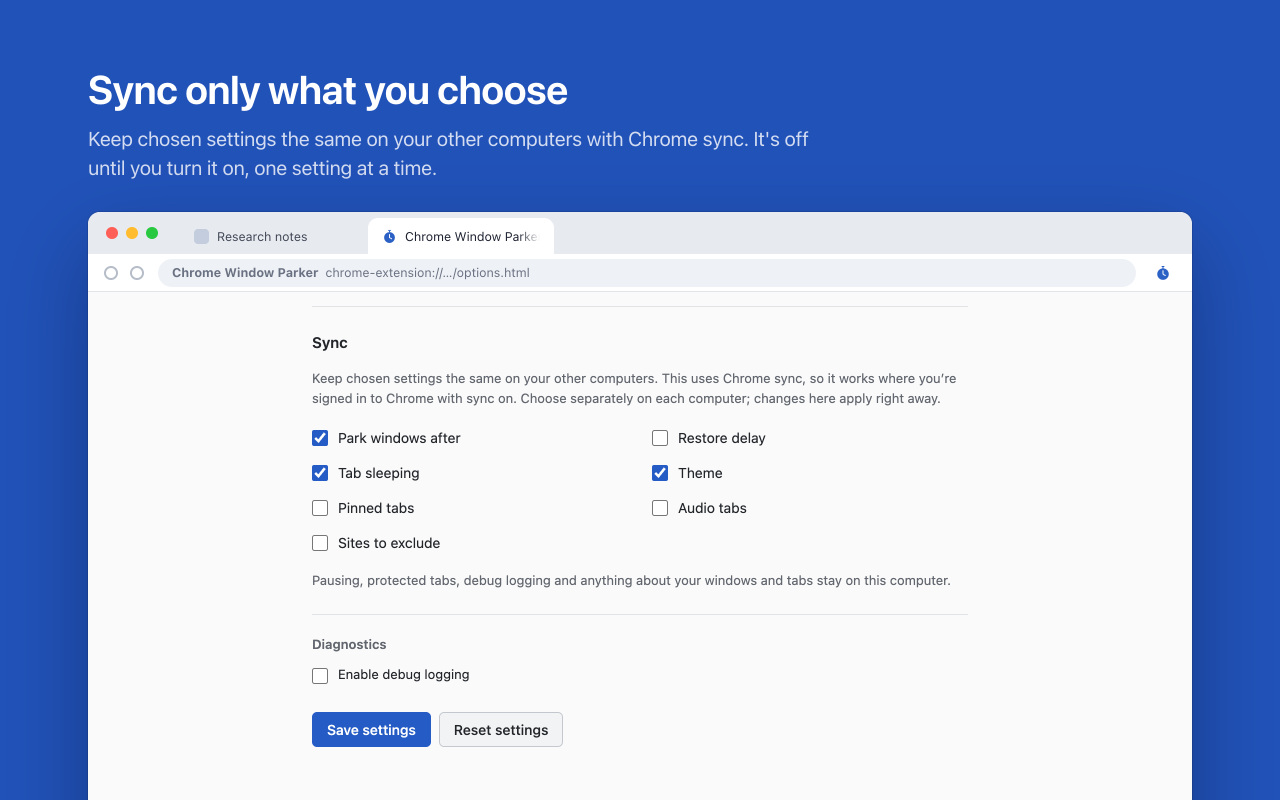
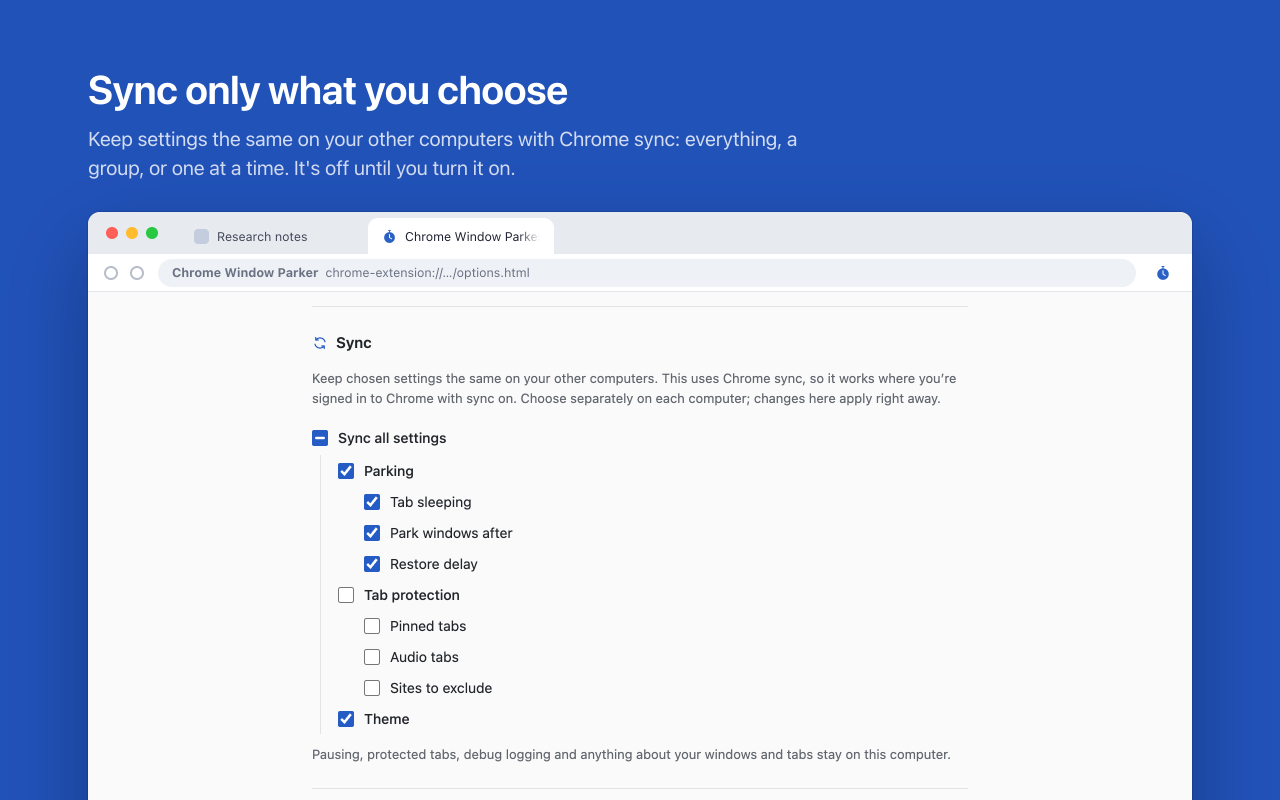
Release candidate 1.5.5.3: version, docs, Store assets and Claude audit
- Version 1.5.5.3 (manifest, package.json, Store fields, issue template).
- Changelog, BEHAVIOR, PRIVACY and TESTING describe grouped sync, the
  "changed here" rule, Restore defaults, excluded-site paste and sorting,
  and the popup icons. Reviewer test instructions updated (496 characters
  with CRLF).
- Store: the capture script uses the new sync request; the Sync caption no
  longer says "one setting at a time". Screenshots 2 (popup), 3 (Settings:
  the Parking heading icon), 4 (Sync) and 5 (dark popup) are regenerated
  from real captures; screenshot 1, both promos, the Store icon and the
  cover are unchanged. All 9 images verify against their sources and the
  current UI.

diff --git a/tools/store-assets/compositions/shot-4-sync.html b/tools/store-assets/compositions/shot-4-sync.html
@@ -1,7 +1,7 @@
 <!doctype html><html lang="en"><head><meta charset="utf-8"><link rel="stylesheet" href="style.css">
 <style>.window { left: 88px; top: 212px; width: 1104px; height: 720px; } .content > img { width: 1280px; margin-left: -88px; }</style></head>
 <body>
-<div class="caption"><h1>Sync only what you choose</h1><p>Keep chosen settings the same on your other computers with Chrome sync. It's off until you turn it on, one setting at a time.</p></div>
+<div class="caption"><h1>Sync only what you choose</h1><p>Keep settings the same on your other computers with Chrome sync: everything, a group, or one at a time. It's off until you turn it on.</p></div>
 <div class="window"><div class="frame"><div class="lights"><i></i><i></i><i></i></div>
 <div class="tabs"><span class="tab"><i class="fav"></i><span class="title">Research notes</span></span><span class="tab active"><i class="fav timer"></i><span class="title">Chrome Window Parker · Settings</span></span></div>
 <div class="toolbar"><span class="nav"><i></i><i></i></span><span class="omnibox"><b>Chrome Window Parker</b>&nbsp;&nbsp;chrome-extension://…/options.html</span><span class="action"><img src="../../../icons/parker-timer.svg" alt=""></span></div></div>

diff --git a/tests/support.test.js b/tests/support.test.js
@@ -81,5 +81,5 @@ test('permission list and restrictive CSP remain unchanged; no external resource
  const m=JSON.parse(read('manifest.json'));assert.deepEqual(m.permissions,['tabs','storage','alarms','downloads']);assert.equal(m.host_permissions,undefined);assert.equal(m.content_scripts,undefined);
  assert.equal(m.content_security_policy.extension_pages,"default-src 'self'; script-src 'self'; style-src 'self'; img-src 'self'; connect-src 'none'; object-src 'none'; base-uri 'none'; form-action 'none'; frame-src 'none'");
  for(const f of ['popup.html','options.html','parked.html'])assert(!/<(?:script|img|iframe)[^>]+(?:src|href)="https?:/.test(read(f)));
- assert.equal(m.version,'1.5.5.2');assert(!/stripe|payment|entitlement/i.test(read('support.js')));
+ assert.equal(m.version,'1.5.5.3');assert(!/stripe|payment|entitlement/i.test(read('support.js')));
 });

diff --git a/TESTING.md b/TESTING.md
@@ -8,7 +8,7 @@ Needs Node 20+ (Python 3 for packaging). There are no dependencies to install.
 npm test
 ```
 
-The tests cover parking and restoring, both sleeping modes, settings and sync, exclusions, keeping windows and tabs in place, Clear parked tabs, closing the last tab, moving a parking page to another window, and recovery after worker or browser restarts. Race tests cover focus changes, moved or closed tabs, new downloads, slow API calls, Chrome refusals and interrupted discard batches. UI tests cover the Settings layout and controls, the theme switch, sync choices, the popup, the parked page, and the Support and Report a bug links. The Store artwork is checked for sizes, transparency and matching sources.
+The tests cover parking and restoring, both sleeping modes, settings and sync, exclusions, keeping windows and tabs in place, Clear parked tabs, closing the last tab, moving a parking page to another window, and recovery after worker or browser restarts. Race tests cover focus changes, moved or closed tabs, new downloads, slow API calls, Chrome refusals and interrupted discard batches. UI tests cover the Settings layout and controls, the theme switch, sync choices and questions, pasting and sorting excluded sites, the popup, the parked page, and the Buy me a coffee and Report a bug links. The Store artwork is checked for sizes, transparency and matching sources.
 
 Things that must always hold:
 
@@ -18,7 +18,7 @@ Things that must always hold:
 - **Closing or moving the last real tab** removes only verified parking pages, so the window can close, including when it's the last Chrome window. Clear parked tabs keeps windows open.
 - **A parking page moved to another window** is removed there and never adopted; the window it came from stays unparked for a full delay. Cleanup that Chrome refuses during a held drag finishes after the drop.
 - **Clear parked tabs** never unloads tabs and restores at most one tab per window.
-- **Sync** is off by default, chosen per setting on each computer, never overwrites a value without asking, and never carries pausing, protected tabs or window state.
+- **Sync** is off by default and chosen on each computer. Turning it on uses a different shared value only for a setting not changed on that computer; the others are asked about together before anything changes. A shared value this version can't use is never replaced without asking. Restore defaults never changes shared values. Pausing, protected tabs and window state never sync.
 
 ## Preview and packaging
 
@@ -35,7 +35,7 @@ The Store artwork has its own tools; see [tools/store-assets](tools/store-assets
 
 Use a separate Chrome profile with nothing important in it, and note the extension, Chrome and OS versions. Start with a 1-minute parking delay and 2-second return delay, then try the defaults. Close the service worker's DevTools before testing sleep or restarts, because it keeps the worker running.
 
-1. **Install.** Load the unzipped package from `chrome://extensions` and check for errors. Save settings, reopen them, and check they stuck. Reset should restore Let Chrome decide, Auto, 15 minutes and 2 seconds, and turn sync off.
+1. **Install.** Load the unzipped package from `chrome://extensions` and check for errors. Save settings, reopen them, and check they stuck. Restore defaults should bring back Let Chrome decide, Auto, 15 minutes, 2 seconds and the four built-in sites in A–Z order, and turn sync off.
 2. **Let Chrome decide.** Leave a window unfocused until it parks. Its previous tab stays in the window; Chrome decides when to unload it.
 3. **Discard immediately.** Park a window with several loaded tabs, including pinned, audio, excluded, protected and already-sleeping ones. Only eligible tabs should be unloaded. Coming back or changing settings mid-way should stop the rest.
 4. **Coming back.** A visit shorter than the return delay leaves the window parked. Staying longer brings back only your previous tab and closes the parking page. Also try Restore tab, clicking a tab yourself, and closing the previous tab first.
@@ -43,11 +43,11 @@ Use a separate Chrome profile with nothing important in it, and note the extensi
 6. **Moving a parking page.** Drag a parking page out into its own window, and into another window, holding it for a few seconds before letting go: it should disappear right after you let go, the new window should close, and the original window should keep its tabs without parking again straight away. Drag one out and back into its own window: it stays.
 7. **Clear.** Clear several parked windows, with parking on and paused. Nothing should unload, each window gets at most one tab back, and parking-only windows stay open with a blank tab.
 8. **Windows and Spaces.** Check tab order, pins, groups and window positions with one window and with ten. Swipe quickly through several macOS desktops and stop on one: only that window should restore. Parking while another app is in front must not bring Chrome forward.
-9. **Protections and downloads.** An excluded selected tab keeps only its own window awake; an excluded background tab doesn't. Any download in progress pauses parking everywhere until it finishes. Calls, screen sharing and editing need exclusions, because Chrome doesn't report them.
-10. **Sync.** On two computers signed in to the same Chrome profile with sync on: turn on one setting on each and check a changed value arrives and applies. A different existing value must ask which to keep. Turning sync off keeps the value, and pausing never syncs.
+9. **Protections and downloads.** An excluded selected tab keeps only its own window awake; an excluded background tab doesn't. Pasting `https://www.example.com/` into its own line of Sites to exclude adds `www.example.com`; `https://example.com/work/*` stays as pasted. Sort A–Z doesn't change the built-in list. Any download in progress pauses parking everywhere until it finishes. Calls, screen sharing and editing need exclusions, because Chrome doesn't report them.
+10. **Sync.** On two computers signed in to the same Chrome profile with sync on: turn on Sync all settings on the first, then change a few values there. On the second, freshly installed or after Restore defaults, turn on Sync all settings: it should pick up those values without asking. Change a setting on the second, turn its sync off and on again: now it asks which to keep. Check a changed value arrives and applies, a group's box shows a dash when only some of its settings sync, turning sync off keeps the value, and pausing never syncs.
 11. **Restarts.** Try the worker stopping by itself, an extension reload, a browser restart, disabling and re-enabling, and computer sleep. Interrupted return delays start again; interrupted batches don't resume. Leave a window you've used for longer than the parking delay while the worker is stopped: it must still wait a full delay after you leave.
-12. **Look and feel.** Check Light, Dark and Auto (the header switch applies immediately) across Settings, the popup and the parked page. Open Protect individual tabs with many tabs: the list scrolls inside its box, with a fade and a small arrow at the bottom while there's more below. Both go away at the end of the list.
-13. **Links and network.** Report a bug and Buy me a coffee open one tab each, only when clicked, by mouse or keyboard. Extension pages load only their own files.
+12. **Look and feel.** Check Light, Dark and Auto (the header switch applies immediately) across Settings, the popup and the parked page, including the section icons in Settings and the popup's footer icons. Check the toolbar icon on a standard and a Retina screen. Open Protect individual tabs with many tabs: the list scrolls inside its box, with a fade and a small arrow at the bottom while there's more below. Both go away at the end of the list.
+13. **Links and network.** Report a bug and Buy me a coffee open one tab each, only when clicked, by mouse or keyboard, and the popup's gear opens Settings. Hovering each popup icon shows its name. Extension pages load only their own files.
 
 For memory comparisons, see [Checking memory savings](docs/BEHAVIOR.md#checking-memory-savings).
 

diff --git a/CLAUDE_AUDIT.md b/CLAUDE_AUDIT.md
@@ -217,3 +217,71 @@ Owned by Claude after this initial bootstrap. Follow the shared audit rules in [
   - The README's hotlinked official button image.
   - The muted coffee link's contrast (it uses `--muted`, the same colour as other popup hints).
 - Open: a physical tab-strip drag, headful macOS, Windows and Linux are not tested. Promotion, tag, release and the Store update are left for Astra and the user.
+
+### 2026-09-30 — v1.5.5.3: sync by group with local intent, excluded-site tidying, popup and icon polish
+
+- Base: `dev @ fe54679`, which is v1.5.5.2 as released and tagged. agent/claude was fast-forwarded from `73301f9`, with no unresolved work.
+- Candidate, in order:
+  - `eebdd9d` adds local intent, grouped sync with one combined question, Restore defaults, stale-copy protection and the keyboard focus fix.
+  - `9c1ebc4` tidies excluded sites: paste cleanup, Sort A–Z, sorted defaults, plainer help and errors.
+  - `f3ddbf7` adds the icon-only popup footer, Settings section icons, the 16/24 px toolbar icons and `tools/store-assets/icons.mjs`.
+  - This commit bumps the version to 1.5.5.3 and adds the changelog, docs, Store text and caption, regenerated screenshots and this entry.
+- Local intent:
+  - Stored in `storage.local.customized`: one boolean per `SYNCABLE` key (`syncFlags`), never synced. Missing means all false, with no migration.
+  - Set only when that key's stored value really changes, through Save (`configure`) or the header theme (`setAppearance`).
+  - Cleared when a synced value replaces the value (`applySettings(next, false)`, from sync, the startup pull or adoption) and by Restore defaults. `reset` passes all-false flags, so the defaults never count as chosen.
+  - Save without changes, same-value sync events, turning sync off and non-syncable settings leave it alone.
+- `configure(settings, shown)`: Settings and the popup's pause toggle send the values they showed. Only fields that differ from those are applied over the current settings, so a value changed meanwhile (by sync or another page) is neither overwritten nor claimed as chosen here.
+- `syncEnable(keys, choices)` is the single path for one setting, a group or everything:
+  - Keys already syncing are skipped.
+  - Nothing shared → share. Equal → turn on. Different and not chosen here → adopt. Different and chosen here, or unusable (`null`) → conflict.
+  - Nothing is written until every conflict has an answer. An answer carries `{use, local, synced}` and counts only while both values still match; otherwise the question is asked again.
+  - `local` marks the key as chosen here. `off`, offered only for unusable values, leaves the key off.
+  - Shares are written one key at a time. Refusals come back in `failed`, and only those keys stay off.
+  - `sync-resolve` is gone. `background.js` now bumps `safetyEpoch` synchronously for `sync-enable`, because it can adopt settings. `syncNotice` is now a list of `{key, reason}`.
+- Settings UI:
+  - "Sync all settings", then Parking and Tab protection group boxes (matching the page's own sections), then a Theme leaf. Theme is a single setting, so it has no group box.
+  - Group and master states are derived (checked or indeterminate) and never stored.
+  - One panel holds a radio pair per setting, with Apply, Cancel and Escape. The tree is locked meanwhile, and focus returns to the box used.
+  - Save settings, Restore defaults and Refresh list keep keyboard focus. This fixes a pre-existing problem: Chrome dropped focus to the page when they disabled themselves.
+- Exclusions:
+  - `simplifyRule` turns a home-page http(s) address into a lowercase host[:port], dropping default ports. Anything with a path, query, `#`, `*`, sign-in details or non-ASCII text is kept as it is.
+  - It runs on paste for whole lines only, drops repeats within the paste, and inserts with `insertText` so Undo works.
+  - `compareRules` sorts by site, then by the rest of the address, ignoring `http(s)://`, `*://` and `*.`, case-insensitively, with the exact text breaking ties. It drives Sort A–Z and the defaults-order test.
+  - `DEFAULTS.exclusions` is reordered to match, and the invalid-site message now says what to enter instead.
+- Icons:
+  - The existing 16/32/48/128 px PNGs were already native renders of the SVG: a fresh render differs by at most 2.6/255 on average.
+  - Added a native 24 px toolbar icon for 1.5× screens.
+  - Re-rendered the 16 px icon with its 1 px stem, crown and hands moved half a pixel onto whole pixels, which is visibly sharper at 1×.
+  - The SVG, the 32/48/128 px PNGs, `docs/assets` and all marketing art are unchanged. Retina toolbars use the unchanged 32 px icon.
+- Found (harness, not product): CDP Space/Enter on a button in the sync panel hangs headless Chrome 154's renderer, even with a no-op handler, and `Debugger.pause` also times out. The identical steps work in headful Chrome, so keyboard checks were run headful.
+- Verified:
+  - `npm test`: 367/367 here, against 339 at the base. The results for each commit, on a clean export, are in the handoff report.
+  - New queue case: `sync-enable` stops an in-flight discard batch, and it fails without the `background.js` change. The focus test fails without the fix.
+  - The Settings tests run against the real engine.
+- Live, in disposable Chrome 154 profiles over the CDP pipe:
+  - Settings sync, headful: 36 of 37 checks passed. The one miss was my own expectation: after Restore defaults, the unchanged Tab sleeping adopted the synced value without asking, which is correct.
+  - Excluded sites, headful: 11/11.
+  - Keyboard Apply with Space and Enter, and Save/Refresh focus, headful.
+  - The real toolbar popup via `action.openPopup`, headful: 360×313, no overflow, a one-line footer, and the gear opens Settings.
+  - All manifest and toolbar icon references resolve at their declared sizes.
+  - The DevTools MCP on the http preview: accessible names, and `checked="mixed"` for a partly synced group. No console messages.
+- Store assets, from capture and compose runs on a scratch copy:
+  - `parked-light` and `parked-dark` were byte-identical and kept.
+  - `popup-light` and `popup-dark` (2 px taller, new footer) and `settings-light` were updated, along with `capture.json` (`syncTop` 1029 → 1060).
+  - Screenshots 2 (popup), 3 (Parking heading icon), 4 (Sync) and 5 (dark popup) are replaced.
+  - Screenshot 1 is kept: its inputs are unchanged and the fresh render showed 70 anti-aliasing pixels, max 8/255.
+  - The promos, Store icon and cover were byte-identical. `verify.mjs` passes all 9 images, including the UI check.
+- Package: 21 runtime files (the new 24 px icon added). Version 1.5.5.3, with permissions and CSP unchanged. The size and SHA-256 are in the handoff report. The unzipped ZIP passed a 13/13 live smoke: real parking in both modes, restore, Clear, sync adoption, Restore defaults, and the popup and Settings pages, with no errors.
+- Not changed: permissions, CSP, host access, `SYNCABLE`, debug logging, parking/dwell/restore/discard/download/Clear/last-window/moved-page logic, the Store description and privacy fields, main, dev, agent/codex and `CODEX_AUDIT.md`.
+- For Astra:
+  - The adopt-without-asking rule and where intent is set and cleared.
+  - The `shown` merge in `configure`.
+  - Per-key share writes.
+  - Stale-answer handling.
+  - `off` offered only for unusable values.
+  - The 16 px half-pixel alignment.
+  - The reviewer test instructions text changed in source, which is optional for the Dashboard.
+- Open:
+  - Not tested: real two-computer sync, a real clipboard paste (synthetic paste events were used), rendering on a 1.5× display, physical tab drags, headful Spaces, Windows and Linux.
+  - The Store needs the new ZIP and screenshots 2, 3, 4 and 5.

diff --git a/docs/BEHAVIOR.md b/docs/BEHAVIOR.md
@@ -30,7 +30,9 @@ Changing the mode takes effect on the next parking cycle. It doesn't unload or w
 
 ## What keeps tabs and windows awake
 
-**Site exclusions.** A plain domain such as `meet.google.com` covers that domain and its subdomains, but not lookalikes such as `meet.google.com.evil.example`. Domains match the standard web ports; add the port for an address such as `localhost:3000`. For part of a site, use a full address with `*` meaning "any text", for example `https://example.com/work/*` (these patterns are case-sensitive).
+**Site exclusions.** A website such as `meet.google.com` covers that site and addresses that end in it, such as `team.meet.google.com`, but not lookalikes such as `meet.google.com.evil.example`. Websites match the standard web ports; add the port for an address such as `localhost:3000`. For part of a site, use a full address with `*` meaning "any text", for example `https://example.com/work/*` (full addresses are case-sensitive).
+
+Pasting a site's home address on a line of its own, such as `https://www.example.com/` or `http://localhost:3000/`, adds just the website (`www.example.com`, `localhost:3000`); an address with a path, query, `#` or `*` is kept exactly as pasted. **Sort A–Z** orders the list by website, ignoring `http://` and `https://`, then by the rest of the address. It doesn't change any entry or save anything; the built-in list already starts in that order.
 
 If an excluded site is the selected tab, that window doesn't park. An excluded background tab doesn't stop its window parking, but Discard immediately skips it. Chrome's own Memory Saver can still unload it.
 
@@ -58,15 +60,23 @@ Chrome doesn't allow tab changes while you're still holding a dragged tab, so th
 
 ## Sync
 
-Sync is off by default and chosen per setting, separately on each computer. The syncable settings are the parking delay, return delay, tab sleeping mode, theme, the pinned and audio tab options, and site exclusions.
+Sync is off by default and chosen separately on each computer: for all settings at once, for the Parking or Tab protection group, or one setting at a time. A group's box shows a dash when only some of its settings sync. The syncable settings are the parking delay, return delay, tab sleeping mode, theme, the pinned and audio tab options, and site exclusions.
 
 Each computer keeps its own local copy of all settings, and that local copy is what the extension always uses, so it works offline, signed out, or with Chrome sync turned off. For each setting you choose, the value is also stored in Chrome's sync storage under its own key, so computers that share different settings don't overwrite each other. Chrome syncs that storage through your Google account when you're signed in with sync on.
 
-When you turn a setting on and there's no shared value yet, this computer's value is shared. If a different value is already shared, Settings asks which one to keep. Turning a setting off keeps the current value here and leaves the shared value alone for your other computers.
+The extension remembers, on this computer only, which of these settings you've changed here. A value that arrives through sync doesn't count as changed here, even if it replaces one that did. When you turn sync on for a setting:
 
-A value changed on another computer goes through normal validation and then behaves exactly like the same change made here (a new sleeping mode applies to the next parking cycle, for example). Values that don't validate, perhaps from a newer version, are ignored. If Chrome refuses to store a value (a site list over Chrome's 8 KB limit per setting, for example), it stays local, sync turns off for that setting, and Settings says why. Reset settings restores the defaults and turns sync off on that computer only.
+- With no shared value yet, this computer's value is shared.
+- With the same shared value, sync simply turns on.
+- With a different shared value, and a setting you haven't changed here, the shared value is used. On a new computer, that picks up your other computers' settings without any questions.
+- With a different shared value, and a setting you have changed here (even back to its default), Settings asks which to keep. Turning on several settings at once asks about all of them together, with a choice for each, and nothing changes until you apply your choices; Cancel changes nothing. If a value changes while you're choosing, Settings asks again.
+- A shared value this version can't use (from a newer version, say) is never replaced without asking.
 
-Pausing, protected tabs, debug logging, your sync choices, and everything about windows, tabs and parking never sync.
+Turning a setting off keeps the current value here and leaves the shared value alone for your other computers.
+
+A value changed on another computer goes through normal validation and then behaves exactly like the same change made here (a new sleeping mode applies to the next parking cycle, for example). Values that don't validate, perhaps from a newer version, are ignored. If Chrome refuses to store a value (a site list over Chrome's 8 KB limit per setting, for example), it stays local, that setting doesn't sync (or stops syncing), and Settings says why. Restore defaults restores the defaults, turns sync off on that computer only, and forgets which settings were changed here, so turning sync on again uses the shared values. It never changes what's shared.
+
+Pausing, protected tabs, debug logging, your sync choices, the record of which settings you've changed here, and everything about windows, tabs and parking never sync.
 
 ## Restarts and recovery
 

diff --git a/PRIVACY.md b/PRIVACY.md
@@ -11,13 +11,13 @@ Chrome Window Parker runs entirely in your browser. There's no Chrome Window Par
 
 ## Optional sync
 
-Sync is off by default. In Settings you can choose, one setting at a time, to keep a setting the same on your other computers: the parking delay, restore delay, tab sleeping mode, theme, pinned and audio tab options, or your site exclusions. Chosen settings are stored in Chrome's own sync storage and travel through your Google account when you're signed in to Chrome with sync on. They never pass through a Chrome Window Parker server, because there isn't one.
+Sync is off by default. In Settings you can choose which settings stay the same on your other computers, one at a time or in groups: the parking delay, restore delay, tab sleeping mode, theme, pinned and audio tab options, or your site exclusions. Chosen settings are stored in Chrome's own sync storage and travel through your Google account when you're signed in to Chrome with sync on. They never pass through a Chrome Window Parker server, because there isn't one.
 
-Your sync choices themselves, pausing, protected tabs, debug logging and all window and tab information always stay on the computer where they're set.
+Your sync choices themselves, a note of which settings you've changed on that computer, pausing, protected tabs, debug logging and all window and tab information always stay on the computer where they're set.
 
 ## Keeping and removing data
 
-A parked window's recovery record is deleted when the window closes or goes back to normal. A limited number of leftovers from crashes may remain. Reset settings restores the defaults and turns sync off on that computer; settings already shared stay in your Chrome sync data for your other computers. Removing the extension deletes its local storage. Synced settings can be cleared with Chrome's own sync controls.
+A parked window's recovery record is deleted when the window closes or goes back to normal. A limited number of leftovers from crashes may remain. Restore defaults restores the defaults and turns sync off on that computer; settings already shared stay in your Chrome sync data for your other computers. Removing the extension deletes its local storage. Synced settings can be cleared with Chrome's own sync controls.
 
 ## Links
 

diff --git a/CHANGELOG.md b/CHANGELOG.md
@@ -1,5 +1,15 @@
 # Changelog
 
+## 1.5.5.3
+
+- **Easier sync on a new computer.** Turning sync on uses your synced settings for anything you haven't changed on this computer, without asking.
+- **Sync everything, a group, or one setting**, in a tidier list: Sync all settings, then Parking and Tab protection, each with its settings beneath. If settings you've changed here differ from your synced ones, one question covers them all, with a choice for each.
+- **Restore defaults** replaces Reset settings. Sync turns off on this computer and starts afresh, and your other computers keep their settings.
+- **Tidier excluded sites.** Paste a site's home address to add the whole site, and Sort A–Z puts the list in order. The built-in sites now start in that order, and the help is plainer.
+- **A cleaner popup.** Report a bug, Buy me a coffee and Settings are small icons. Settings keeps the labelled links.
+- **Settings sections have small icons**, and keyboard focus stays on Save settings, Restore defaults and Refresh list while they work.
+- **A sharper toolbar icon** on standard and 150% displays.
+
 ## 1.5.5.2
 
 - **Fixed** a parking page dragged out of its window staying open as a window of its own. A parking page now only belongs to the window it was made for: moved anywhere else, it's removed. The window it came from keeps its tabs and isn't parked again straight away.
